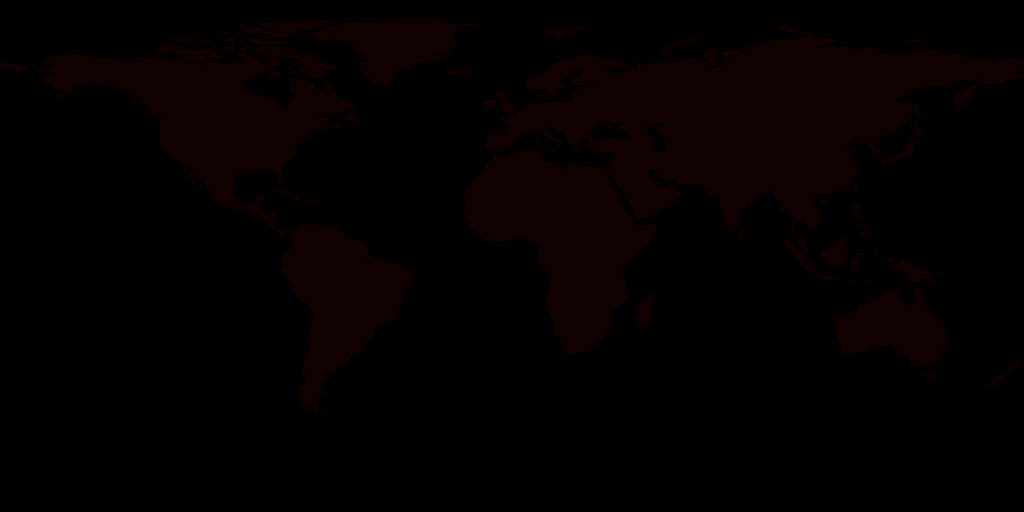
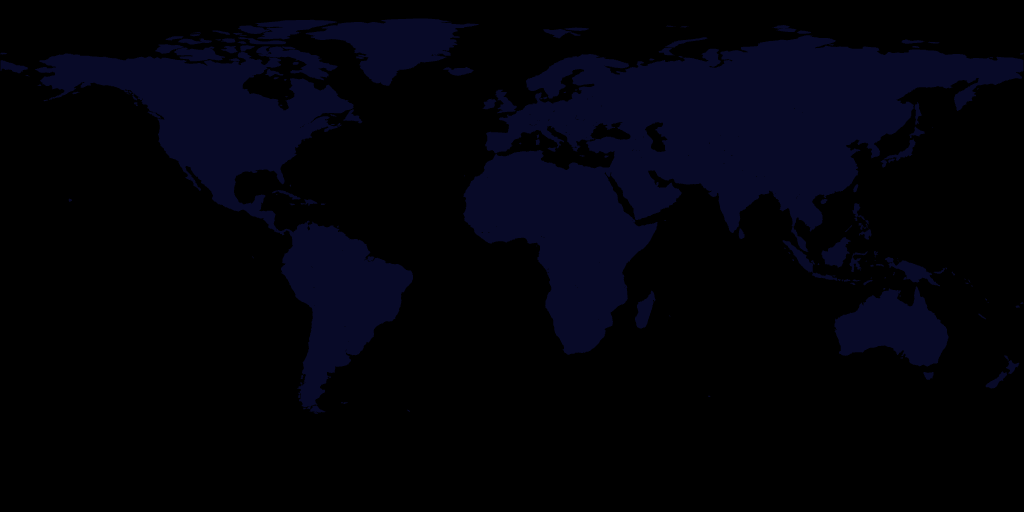
fix: permi

diff --git a/core.js b/core.js
@@ -104,7 +104,7 @@ const getArcMesh = (arcInfo) => {
   const points = curve.getPoints(30);
   const _geometry = new THREE.BufferGeometry().setFromPoints(points);
   const _material = new THREE.LineBasicMaterial({
-    color: 0xffffff,
+    color: 0x00ffff,
   });
   const ellipse = new THREE.Line(_geometry, _material);
 
@@ -147,9 +147,9 @@ const getFlyLineMesh = (arcInfo) => {
   const flyColors = [];
   const flyPercents = [];
   for (let i = 0; i < flyPoints.length; i++) {
-    flyPercents.push(i / flyPoints.length);
+    flyPercents.push(i / flyPoints.length + 0.6);
     // 0 - 1 : 0 - 255
-    flyColors.push(1, 1, 0, i / flyPoints.length);
+    flyColors.push(0x00, 0xff, 0xff, i / flyPoints.length);
   }
   flyGeometry.setAttribute(
     "color",
@@ -255,16 +255,16 @@ const getEarth = (earthSize) => {
 
 
     const lineGeometry = new THREE.BufferGeometry().setFromPoints(featurePoints);
-    const lineMaterial = new THREE.LineBasicMaterial({ color: 0xffff00, linewidth: 1 });
+    const lineMaterial = new THREE.LineBasicMaterial({ color: 0x81f2e1, linewidth: 1 });
     const line = new THREE.LineSegments(lineGeometry, lineMaterial);
 
     sphere.add(line);
   });
 
   // 球体光晕
-  const glowGeometry = new THREE.SphereGeometry(coreRadius + 1, 32, 32);
+  const glowGeometry = new THREE.SphereGeometry(coreRadius + 1, 64, 64);
   const glowMaterial = new THREE.MeshBasicMaterial({
-    color: 0xff0000,
+    color: 0x81f2e1,
     side: THREE.BackSide,
     transparent: true,
     opacity: 0.2,
@@ -308,6 +308,39 @@ const getBackground = (redis) => {
 
 }
 
+const getShowPoint = (position) => {
+  const group = new THREE.Group();
+  group.position.copy(position);
+  group.quaternion.setFromUnitVectors(new THREE.Vector3(0, 1, 0), position.clone().normalize());
+
+  // 创建外环
+  const outRingGeometry = new THREE.RingGeometry(0.55, 0.65, 32);
+  const outRingMaterial = new THREE.MeshBasicMaterial({
+    color: 0x81f2e1,
+    side: THREE.DoubleSide,
+  });
+  const outRing = new THREE.Mesh(outRingGeometry, outRingMaterial);
+  // 旋转角度
+  outRing.rotation.x = Math.PI / 2;
+  group.add(outRing);
+  // 内圆面
+  const innerCircleGeometry = new THREE.CircleGeometry(0.4, 32);
+  const innerCircleMaterial = new THREE.MeshBasicMaterial({
+    color: 0x81f2e1,
+    side: THREE.DoubleSide,
+  });
+  const innerCircle = new THREE.Mesh(innerCircleGeometry, innerCircleMaterial);
+  innerCircle.rotation.x = Math.PI / 2;
+  group.add(innerCircle);
+
+  return group;
+}
+
+const getShowPointByLonLat = (lon, lat, r) => {
+  const position = latLonToVector3(lon, lat, r);
+  return getShowPoint(position);
+}
+
 /**
  * @param {THREE.Scene} scene
  */
@@ -328,54 +361,10 @@ export default (scene) => {
   const currentLon = 119;
   const currentLat = 29;
 
-  const locationPosition = latLonToVector3(currentLon, currentLat, earthSize)
-
-
-  // 创建点
-  const locationMesh = new THREE.Mesh(
-    new THREE.SphereGeometry(0.2, 32, 32),
-    new THREE.MeshBasicMaterial({
-      color: 0xff0000,
-    })
-  );
-  locationMesh.position.copy(locationPosition);
-
-  scene.add(locationMesh);
-
-  // 创建平面
-  const sG = new THREE.CircleGeometry(1, 32);
-  const sM = new THREE.MeshBasicMaterial({
-    color: 0x00ff00,
-    side: THREE.DoubleSide,
-  });
-  const s = new THREE.Mesh(sG, sM);
-  s.position.copy(locationPosition);
-  // s.position.z = 0;
-  s.lookAt(0, 0, 0);
-  scene.add(s);
-
-  // 圆锥体
-  const coneGeometry = new THREE.ConeGeometry(0.5, 5, 32);
-  const coneMaterial = new THREE.MeshBasicMaterial({
-    color: 0xff00ff,
-  });
-  const cone = new THREE.Mesh(coneGeometry, coneMaterial);
-  cone.position.copy(locationPosition);
-  // cone.lookAt(0, 0, 0);
-  scene.add(cone);
-
-  cone.add(new THREE.AxesHelper(5));
-
-  // 
-  // const sceneQ = new THREE.Quaternion().setFromUnitVectors( new THREE.Vector3(0, 0, 1), locationPosition.clone().normalize());
-  // cone.applyQuaternion(sceneQ);
-  // cone.position.applyQuaternion(sceneQ);
-  cone.quaternion.setFromUnitVectors(new THREE.Vector3(0, 1, 0), locationPosition.clone().normalize());
+  const cPoint = getShowPointByLonLat(currentLon, currentLat, earthSize);
+  scene.add(cPoint);
 
   for (let i = 0; i < 20; i++) {
-    const p1 = createPoint(0.3, 0x0000ff);
-    const p2 = createPoint(0.3, 0xffff00);
-
     // 随机放在球面上 xyz
     // 随机一个向量
     const randomPoint1 = new THREE.Vector3(
@@ -385,7 +374,6 @@ export default (scene) => {
     );
     // 乘以半径
     randomPoint1.normalize().multiplyScalar(earthSize);
-    p1.position.copy(randomPoint1);
 
     const randomPoint2 = new THREE.Vector3(
       Math.random() - 0.5,
@@ -394,7 +382,10 @@ export default (scene) => {
     );
     // 乘以半径
     randomPoint2.normalize().multiplyScalar(earthSize);
-    p2.position.copy(randomPoint2);
+
+    const p1 = getShowPoint(randomPoint1);
+    const p2 = getShowPoint(randomPoint2);
+
 
     scene.add(p1);
     scene.add(p2);

diff --git a/test2.js b/test2.js
@@ -31,7 +31,7 @@ export default (scene) => {
           });
           const shape = new THREE.Shape(points);
           const geometry = new THREE.ShapeGeometry(shape);
-          const material = new THREE.MeshBasicMaterial({ color: 0x100000 });
+          const material = new THREE.MeshBasicMaterial({ color: 0x080a28 });
           const mesh = new THREE.Mesh(geometry, material);
           scene.add(mesh);
 
